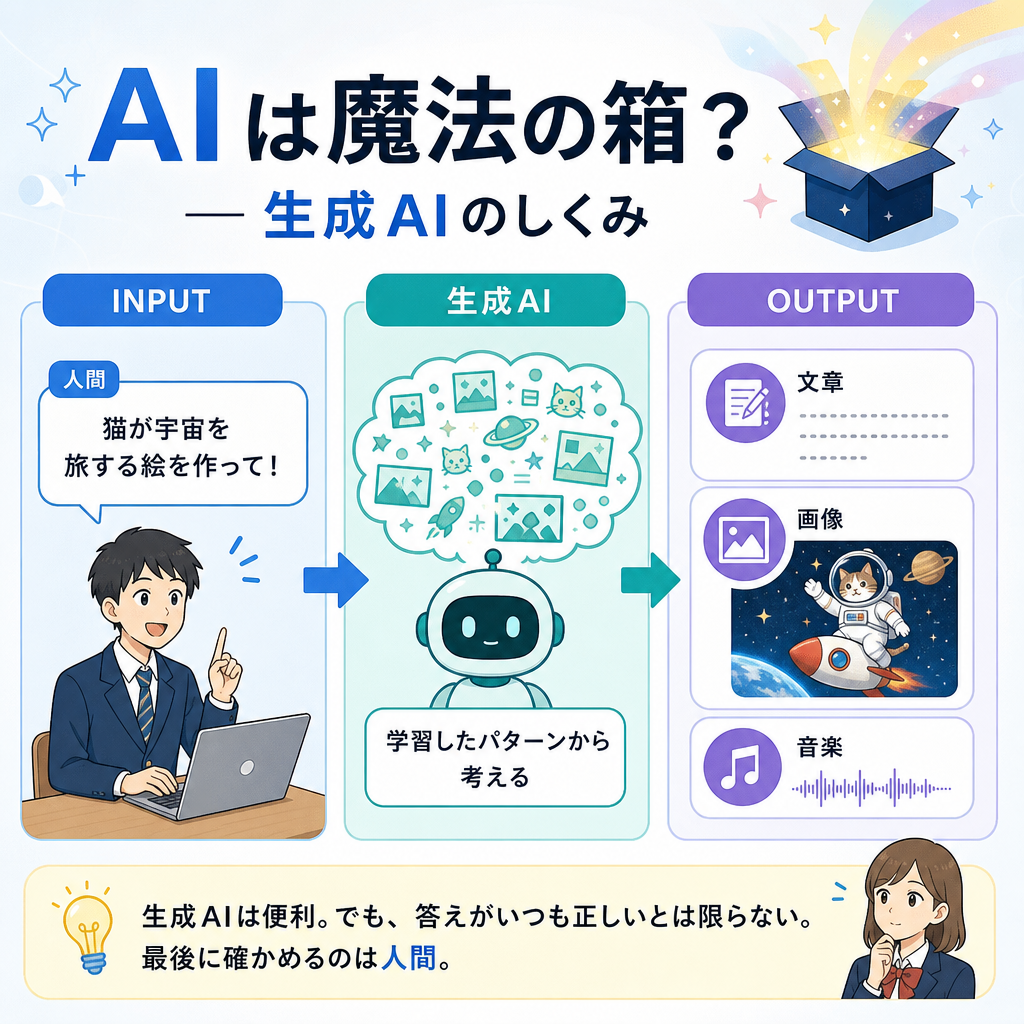
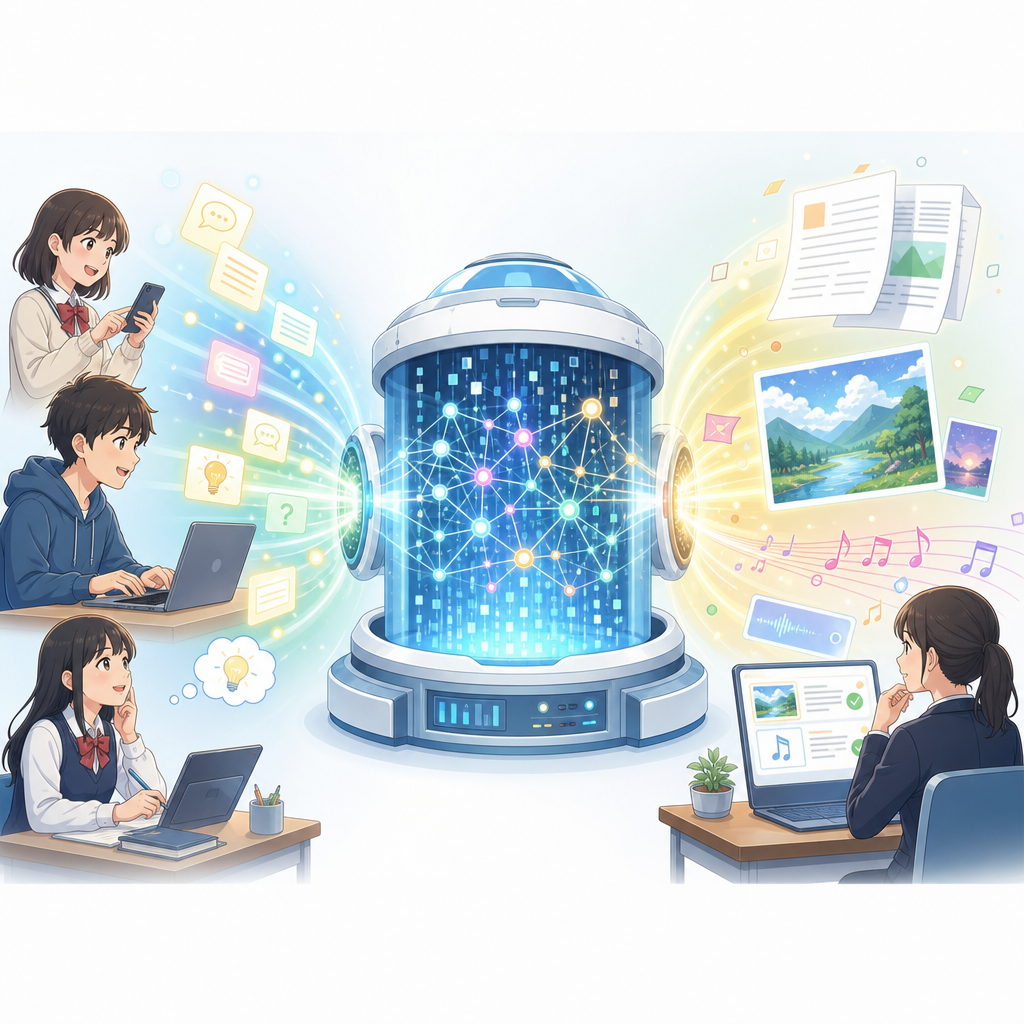
Update Creative AI Portfolio website

diff --git a/index.html b/index.html
@@ -3,159 +3,88 @@
 <head>
   <meta charset="utf-8">
   <meta name="viewport" content="width=device-width,initial-scale=1">
-  <title>JackSin — Creative AI Portfolio</title>
-  <meta name="description" content="Creative AI, Web, App and Generative AI works by JackSin.">
-  <meta property="og:title" content="JackSin — Creative AI Portfolio">
+  <title>Creative AI Portfolio</title>
+  <meta name="description" content="Creative AI, Web, App and Generative AI works.">
+  <meta property="og:title" content="Creative AI Portfolio">
   <meta property="og:description" content="Creative AI, Web, App and Generative AI works.">
-  <meta property="og:image" content="https://jacksin2031.github.io/Creative-AI-Portfolio/assets/og-image.jpg">
+  <meta property="og:image" content="https://jacksin2031.github.io/Creative-AI-Portfolio/assets/og-image.png">
   <meta property="og:type" content="website">
   <meta property="og:url" content="https://jacksin2031.github.io/Creative-AI-Portfolio/">
   <meta name="twitter:card" content="summary_large_image">
   <link rel="stylesheet" href="style.css">
 </head>
 <body>
-  <header class="nav">
-    <a class="brand" href="#home">✦ JackSin</a>
-    <nav>
-      <a href="#works">Works</a>
-      <a href="#projects">Projects</a>
-      <a href="#rsl">RSL 1.0</a>
-      <a href="https://github.com/jacksin2031/Creative-AI-Portfolio">GitHub</a>
-    </nav>
-  </header>
-
-  <main>
-    <section class="hero" id="home">
-      <div class="hero-copy">
-        <p class="eyebrow">CREATIVE AI PORTFOLIO · 2026</p>
-        <h1>Create. Learn. <span>Share.</span></h1>
-        <p class="lead">生成AIを「出力する道具」ではなく、考え、設計し、検証する制作パートナーとして扱う。</p>
-        <div class="actions">
-          <a class="primary" href="#works">課題作品を見る</a>
-          <a class="secondary" href="https://github.com/jacksin2031/Creative-AI-Portfolio">Repository</a>
-        </div>
-      </div>
-      <div class="hero-card">
-        <strong>Course focus</strong>
-        <div class="chips">
-          <span>Image Generation</span><span>Music AI</span><span>Diffusion</span>
-          <span>Multimodal</span><span>HITL</span><span>Reproducibility</span>
-        </div>
-        <p>プロンプト、生成条件、権利、再現性までを制作ログとして残すことを重視しています。</p>
-      </div>
-    </section>
-
-    <section class="section" id="works">
-      <div class="section-head">
-        <div>
-          <p class="eyebrow">CREATIVE AI COURSE</p>
-          <h2>課題作品｜第1回〜第6回</h2>
-        </div>
-        <p>各回で学んだ概念を、1枚の画像レポートや制作記録として可視化しました。</p>
-      </div>
-
-      <div class="grid">
-        <article class="card">
-          <img src="assets/round1.png" alt="AIは魔法の箱？ 生成AIのしくみ">
-          <div class="card-body">
-            <span class="badge">第1回</span>
-            <h3>AIは魔法の箱？</h3>
-            <p>入力 → 生成AI → 出力という基本構造と、「最後に確認するのは人間」という視点を表現。</p>
-            <div class="tags"><span>Text2Image</span><span>Prompt</span></div>
-          </div>
-        </article>
-
-        <article class="card">
-          <img src="assets/round2.svg" alt="生成AIとの向き合い方 商業利用チェックリスト">
-          <div class="card-body">
-            <span class="badge">第2回</span>
-            <h3>生成AIとの向き合い方</h3>
-            <p>自分のWeb/App制作に、契約・ライセンス・知財・機密情報・制作ログのチェックを適用。</p>
-            <div class="tags"><span>Rights</span><span>Guideline</span></div>
-          </div>
-        </article>
-
-        <article class="card">
-          <img src="assets/round3.png" alt="楽曲生成AIの制御性・再現性・表現能力">
-          <div class="card-body">
-            <span class="badge">第3回</span>
-            <h3>AI音楽は「ガチャ」じゃない</h3>
-            <p>Lyrics、Style、BPM、Vocal、Structureを設計し、生成条件を記録する音楽制作を可視化。</p>
-            <div class="tags"><span>Music AI</span><span>BPM</span><span>Control</span></div>
-          </div>
-        </article>
-
-        <article class="card">
-          <img src="assets/round4.png" alt="オープンモデルと商用モデルの違い">
-          <div class="card-body">
-            <span class="badge">第4回</span>
-            <h3>オープンモデルと商用モデル</h3>
-            <p>自由度・環境構築・ライセンスと、手軽さ・品質・サポートの違いを同じお題で比較。</p>
-            <div class="tags"><span>Open Model</span><span>Seed</span><span>Reproducibility</span></div>
-          </div>
-        </article>
-
-        <article class="card">
-          <img src="assets/round5.png" alt="拡散モデル Diffusion の仕組み">
-          <div class="card-body">
-            <span class="badge">第5回</span>
-            <h3>ざらざらの中から絵が浮かぶ</h3>
-            <p>Diffusionを「砂嵐のようなノイズを少しずつ掃いて、景色を浮かび上がらせる」比喩で説明。</p>
-            <div class="tags"><span>Diffusion</span><span>Noise</span><span>Seed</span></div>
-          </div>
-        </article>
-
-        <article class="card">
-          <img src="assets/round6.png" alt="LuC4で体感するマルチモーダルとHITL">
-          <div class="card-body">
-            <span class="badge">第6回</span>
-            <h3>LuC4 × Multimodal × HITL</h3>
-            <p>文字と画像をまとめて理解し、人間の確認とフィードバックで出力を育てる循環を表現。</p>
-            <div class="tags"><span>Multimodal</span><span>HITL</span><span>Feedback</span></div>
-          </div>
-        </article>
-      </div>
-    </section>
-
-    <section class="section projects" id="projects">
-      <div class="section-head">
-        <div>
-          <p class="eyebrow">OTHER PROJECTS</p>
-          <h2>AI × Software Development</h2>
-        </div>
-        <p>授業以外でも、AIをシステム設計・Web/App・ゲーム制作に活用しています。</p>
-      </div>
-      <div class="project-grid">
-        <article><h3>Atlas Automation Studio</h3><p>ゲーム／デスクトップアプリ向けのAIオートメーション基盤。ワークフロー、Runtime、Plugin、Storageなどを設計。</p><span>Rust · Python · Tauri</span></article>
-        <article><h3>TravelEasy</h3><p>香港⇄日本旅行向けの旅行支援アプリ。旅程、翻訳、OCR、ルート、予算などを統合。</p><span>Flutter · Dart · AI</span></article>
-        <article><h3>異世界転生 Web Game</h3><p>AIが世界観を生成し、探索とアイテム収集を通じて世界を理解していくブラウザゲーム構想。</p><span>AI · Web · Game Design</span></article>
-        <article><h3>Local AI Memory System</h3><p>知識境界、長期記憶、Experience Recorder、Self Evolutionを備えたローカルAIメモリ基盤。</p><span>Local AI · Memory · Evaluation</span></article>
-      </div>
-    </section>
-
-    <section class="section rsl" id="rsl">
-      <div class="section-head">
-        <div>
-          <p class="eyebrow">RSL 1.0</p>
-          <h2>AI利用・再利用について</h2>
-        </div>
-      </div>
-      <div class="policy">
-        <p>このポートフォリオでは、作品の制作過程・出典・利用条件をできる限り明示します。AIで利用・再利用する場合も、第三者の権利と各サービスの利用条件を優先します。</p>
-        <ul>
-          <li><strong>作者表示・出典を保持する。</strong> 作品を紹介・引用する際は、作者と出典が分かる形にする。</li>
-          <li><strong>第三者の権利を優先する。</strong> 画像・音声・商標・キャラクター等に第三者の権利が含まれる場合、その条件に従う。</li>
-          <li><strong>なりすまし・誤認を避ける。</strong> 作者本人が制作・発言・承認したかのように見せる利用を行わない。</li>
-          <li><strong>AI利用を記録する。</strong> 使用したツール、モデル、バージョン、プロンプト、主要パラメータを可能な範囲で残す。</li>
-        </ul>
-        <p class="note">※ 授業で確定したRSL 1.0の個別条件がある場合は、このセクションをその条件に合わせて更新します。</p>
-      </div>
-    </section>
-  </main>
-
-  <footer>
-    <p>© 2026 JackSin · Creative AI Portfolio</p>
+<header class="nav">
+  <a class="brand" href="#home">✦ Creative AI Portfolio</a>
+  <nav>
+    <a href="#works">Works</a>
+    <a href="#projects">Projects</a>
+    <a href="#rsl">RSL 1.0</a>
     <a href="https://github.com/jacksin2031/Creative-AI-Portfolio">GitHub</a>
-  </footer>
+  </nav>
+</header>
+<main>
+  <section class="hero" id="home">
+    <div class="hero-copy">
+      <p class="eyebrow">CREATIVE AI PORTFOLIO · 2026</p>
+      <h1>Create. Learn. <span>Share.</span></h1>
+      <p class="lead">生成AIを「出力する道具」ではなく、考え、設計し、検証する制作パートナーとして学んだ8つの記録。</p>
+      <div class="actions">
+        <a class="primary" href="#works">課題作品を見る</a>
+        <a class="secondary" href="https://github.com/jacksin2031/Creative-AI-Portfolio">Repository</a>
+      </div>
+    </div>
+    <div class="hero-card">
+      <strong>Course focus</strong>
+      <div class="chips"><span>Image Generation</span><span>Music AI</span><span>Diffusion</span><span>Multimodal</span><span>HITL</span><span>Rights</span><span>Reproducibility</span></div>
+      <p>プロンプト、生成条件、権利、再現性までを制作ログとして残し、AIとの関係を「使う」から「創る・考える・活かす」へ更新していくことを目指しました。</p>
+    </div>
+  </section>
+
+  <section class="section" id="works">
+    <div class="section-head">
+      <div><p class="eyebrow">CREATIVE AI COURSE</p><h2>課題作品｜第1回〜第8回</h2></div>
+      <p>各回で学んだ概念を、1枚の画像レポートやポートフォリオ作品として可視化しました。</p>
+    </div>
+    <div class="grid">
+      <article class="card"><img src="assets/round1.png" alt="第1回 生成AIとは何か"><div class="card-body"><span class="badge">第1回</span><h3>AIは魔法の箱？</h3><p>入力 → 生成AI → 出力という基本構造と、「最後に確認するのは人間」という視点を表現。</p><div class="tags"><span>Text2Image</span><span>Prompt</span></div></div></article>
+      <article class="card"><img src="assets/round2.svg" alt="第2回 生成AIとの向き合い方"><div class="card-body"><span class="badge">第2回</span><h3>生成AIとの向き合い方</h3><p>自分のWeb/App制作に、契約・ライセンス・知財・機密情報・制作ログのチェックを適用。</p><div class="tags"><span>Rights</span><span>Guideline</span></div></div></article>
+      <article class="card"><img src="assets/round3.png" alt="第3回 楽曲生成AI"><div class="card-body"><span class="badge">第3回</span><h3>AI音楽は「ガチャ」じゃない</h3><p>Lyrics、Style、BPM、Vocal、Structureを設計し、生成条件を記録する音楽制作を可視化。</p><div class="tags"><span>Music AI</span><span>BPM</span><span>Control</span></div></div></article>
+      <article class="card"><img src="assets/round4.png" alt="第4回 オープンモデルと商用モデル"><div class="card-body"><span class="badge">第4回</span><h3>オープンモデルと商用モデル</h3><p>自由度・環境構築・ライセンスと、手軽さ・品質・サポートの違いを同じお題で比較。</p><div class="tags"><span>Open Model</span><span>Seed</span><span>Reproducibility</span></div></div></article>
+      <article class="card"><img src="assets/round5.png" alt="第5回 Diffusion"><div class="card-body"><span class="badge">第5回</span><h3>ざらざらの中から絵が浮かぶ</h3><p>Diffusionを「ノイズを少しずつ掃いて景色を浮かび上がらせる」比喩で説明。</p><div class="tags"><span>Diffusion</span><span>Noise</span><span>Seed</span></div></div></article>
+      <article class="card"><img src="assets/round6.png" alt="第6回 LuC4"><div class="card-body"><span class="badge">第6回</span><h3>LuC4 × Multimodal × HITL</h3><p>文字と画像をまとめて理解し、人間の確認とフィードバックで出力を育てる循環を表現。</p><div class="tags"><span>Multimodal</span><span>HITL</span><span>Feedback</span></div></div></article>
+      <article class="card"><img src="assets/round7.png" alt="第7回 公開ポートフォリオ"><div class="card-body"><span class="badge">第7回</span><h3>公開ポートフォリオ</h3><p>GitHub Pagesで公開する作品サイトを構築し、作品群とAI利用・再利用条件を整理して発信。</p><div class="tags"><span>Web</span><span>GitHub Pages</span><span>og:image</span></div></div></article>
+      <article class="card"><img src="assets/round8.png" alt="第8回 学ぶ前と学んだ後で"><div class="card-body"><span class="badge">第8回</span><h3>学ぶ前と学んだ後で</h3><p>AIを便利な道具として使う段階から、理解し、考え、責任を持って活用する立場への変化を宣言。</p><div class="tags"><span>Reflection</span><span>Declaration</span><span>Portfolio</span></div></div></article>
+    </div>
+  </section>
+
+  <section class="section projects" id="projects">
+    <div class="section-head">
+      <div><p class="eyebrow">OTHER PROJECTS</p><h2>AI × Software Development</h2></div>
+      <p>授業以外でも、AIをシステム設計・Web/App・ゲーム制作に活用しています。</p>
+    </div>
+    <div class="project-grid">
+      <article><h3>Atlas Automation Studio</h3><p>ゲーム／デスクトップアプリ向けのAIオートメーション基盤。ワークフロー、Runtime、Plugin、Storageなどを設計。</p><span>Rust · Python · Tauri</span></article>
+      <article><h3>TravelEasy</h3><p>香港⇄日本旅行向けの旅行支援アプリ。旅程、翻訳、OCR、ルート、予算などを統合。</p><span>Flutter · Dart · AI</span></article>
+      <article><h3>異世界転生 Web Game</h3><p>AIが世界観を生成し、探索とアイテム収集を通じて世界を理解していくブラウザゲーム構想。</p><span>AI · Web · Game Design</span></article>
+      <article><h3>Local AI Memory System</h3><p>知識境界、長期記憶、Experience Recorder、Self Evolutionを備えたローカルAIメモリ基盤。</p><span>Local AI · Memory · Evaluation</span></article>
+    </div>
+  </section>
+
+  <section class="section rsl" id="rsl">
+    <div class="section-head"><div><p class="eyebrow">RSL 1.0</p><h2>AI利用・再利用について</h2></div></div>
+    <div class="policy">
+      <p>このポートフォリオでは、作品の制作過程・出典・利用条件をできる限り明示します。AIで利用・再利用する場合も、第三者の権利と各サービスの利用条件を優先します。</p>
+      <ul>
+        <li><strong>作者表示・出典を保持する。</strong> 作品を紹介・引用する際は、作者と出典が分かる形にする。</li>
+        <li><strong>第三者の権利を優先する。</strong> 画像・音声・商標・キャラクター等に第三者の権利が含まれる場合、その条件に従う。</li>
+        <li><strong>なりすまし・誤認を避ける。</strong> 作者本人が制作・発言・承認したかのように見せる利用を行わない。</li>
+        <li><strong>AI利用を記録する。</strong> 使用したツール、モデル、バージョン、プロンプト、主要パラメータを可能な範囲で残す。</li>
+      </ul>
+      <p class="note">※ 授業で確定したRSL 1.0の個別条件がある場合は、このセクションをその条件に合わせて更新します。</p>
+    </div>
+  </section>
+</main>
+<footer><p>© 2026 Creative AI Portfolio</p><a href="https://github.com/jacksin2031/Creative-AI-Portfolio">GitHub</a></footer>
 </body>
 </html>

diff --git a/style.css b/style.css
@@ -1,33 +1,15 @@
 
-:root{
-  --bg:#071327;--panel:#0d1c36;--ink:#eaf2ff;--muted:#a8b6cf;
-  --line:rgba(255,255,255,.11);--blue:#64a3ff;--violet:#9f7cff;
-  --surface:#f6f8fc;--dark:#101828;--shadow:0 18px 45px rgba(5,18,40,.13);
-}
-*{box-sizing:border-box}html{scroll-behavior:smooth}
-body{margin:0;font-family:Inter,"Noto Sans JP",system-ui,-apple-system,BlinkMacSystemFont,"Segoe UI",sans-serif;background:var(--surface);color:var(--dark)}
-a{color:inherit;text-decoration:none}
-.nav{height:70px;padding:0 max(5vw,28px);display:flex;align-items:center;justify-content:space-between;background:#071327;color:white;position:sticky;top:0;z-index:20;border-bottom:1px solid var(--line)}
-.brand{font-size:1.2rem;font-weight:800}.nav nav{display:flex;gap:24px;font-size:.93rem;color:#d6e1f5}.nav nav a:hover{color:white}
-main{overflow:hidden}
-.hero{min-height:520px;padding:90px max(7vw,34px);display:grid;grid-template-columns:1.45fr .8fr;gap:56px;align-items:center;color:white;background:
-radial-gradient(circle at 75% 18%,rgba(96,97,255,.32),transparent 28%),
-radial-gradient(circle at 35% 50%,rgba(48,172,255,.17),transparent 33%),
-linear-gradient(135deg,#061226,#0c2145 57%,#1a1747)}
-.hero:after{content:"";position:absolute;inset:70px 0 auto 0;height:520px;pointer-events:none;background-image:linear-gradient(rgba(255,255,255,.025) 1px,transparent 1px),linear-gradient(90deg,rgba(255,255,255,.025) 1px,transparent 1px);background-size:40px 40px}
-.hero-copy,.hero-card{position:relative;z-index:1}.eyebrow{letter-spacing:.13em;text-transform:uppercase;font-size:.75rem;font-weight:800;color:#6b88b4}
-.hero .eyebrow{color:#8bb7ff}
-h1{font-size:clamp(3.2rem,7vw,6.5rem);line-height:.94;margin:14px 0 28px;letter-spacing:-.055em;max-width:850px}
-h1 span{background:linear-gradient(90deg,#6bc6ff,#a783ff);-webkit-background-clip:text;color:transparent}
-.lead{font-size:1.2rem;line-height:1.9;color:#cbd8ee;max-width:760px}.actions{display:flex;gap:14px;margin-top:30px}
-.primary,.secondary{padding:13px 19px;border-radius:10px;font-weight:750}.primary{background:linear-gradient(90deg,#4d88ff,#795cff);box-shadow:0 10px 30px rgba(79,111,255,.34)}.secondary{border:1px solid rgba(255,255,255,.24)}
-.hero-card{background:rgba(255,255,255,.07);border:1px solid rgba(255,255,255,.13);backdrop-filter:blur(12px);border-radius:24px;padding:28px;box-shadow:0 28px 80px rgba(0,0,0,.2)}
-.hero-card strong{font-size:1.2rem}.hero-card p{color:#bdcae0;line-height:1.75}.chips{display:flex;flex-wrap:wrap;gap:9px;margin:18px 0}.chips span{padding:8px 10px;border-radius:999px;background:rgba(255,255,255,.09);border:1px solid rgba(255,255,255,.1);font-size:.82rem}
+:root{--bg:#071327;--panel:#0d1c36;--ink:#eaf2ff;--muted:#a8b6cf;--line:rgba(255,255,255,.11);--blue:#64a3ff;--violet:#9f7cff;--surface:#f6f8fc;--dark:#101828;--shadow:0 18px 45px rgba(5,18,40,.13)}
+*{box-sizing:border-box}html{scroll-behavior:smooth}body{margin:0;font-family:Inter,"Noto Sans JP",system-ui,-apple-system,BlinkMacSystemFont,"Segoe UI",sans-serif;background:var(--surface);color:var(--dark)}a{color:inherit;text-decoration:none}
+.nav{height:70px;padding:0 max(5vw,28px);display:flex;align-items:center;justify-content:space-between;background:#071327;color:#fff;position:sticky;top:0;z-index:20;border-bottom:1px solid var(--line)}
+.brand{font-size:1.06rem;font-weight:800}.nav nav{display:flex;gap:24px;font-size:.93rem;color:#d6e1f5}.nav nav a:hover{color:#fff}
+.hero{min-height:520px;padding:90px max(7vw,34px);display:grid;grid-template-columns:1.45fr .8fr;gap:56px;align-items:center;color:white;background:radial-gradient(circle at 75% 18%,rgba(96,97,255,.32),transparent 28%),radial-gradient(circle at 35% 50%,rgba(48,172,255,.17),transparent 33%),linear-gradient(135deg,#061226,#0c2145 57%,#1a1747);position:relative}.hero:after{content:"";position:absolute;inset:70px 0 auto 0;height:520px;pointer-events:none;background-image:linear-gradient(rgba(255,255,255,.025) 1px,transparent 1px),linear-gradient(90deg,rgba(255,255,255,.025) 1px,transparent 1px);background-size:40px 40px}
+.hero-copy,.hero-card{position:relative;z-index:1}.eyebrow{letter-spacing:.13em;text-transform:uppercase;font-size:.75rem;font-weight:800;color:#6b88b4}.hero .eyebrow{color:#8bb7ff}h1{font-size:clamp(3.1rem,7vw,6rem);line-height:.94;margin:14px 0 28px;letter-spacing:-.055em;max-width:850px}h1 span{background:linear-gradient(90deg,#6bc6ff,#a783ff);-webkit-background-clip:text;color:transparent}.lead{font-size:1.18rem;line-height:1.9;color:#cbd8ee;max-width:760px}.actions{display:flex;gap:14px;margin-top:30px}.primary,.secondary{padding:13px 19px;border-radius:10px;font-weight:750}.primary{background:linear-gradient(90deg,#4d88ff,#795cff);box-shadow:0 10px 30px rgba(79,111,255,.34)}.secondary{border:1px solid rgba(255,255,255,.24)}
+.hero-card{background:rgba(255,255,255,.07);border:1px solid rgba(255,255,255,.13);backdrop-filter:blur(12px);border-radius:24px;padding:28px;box-shadow:0 28px 80px rgba(0,0,0,.2)}.hero-card strong{font-size:1.2rem}.hero-card p{color:#bdcae0;line-height:1.75}.chips{display:flex;flex-wrap:wrap;gap:9px;margin:18px 0}.chips span{padding:8px 10px;border-radius:999px;background:rgba(255,255,255,.09);border:1px solid rgba(255,255,255,.1);font-size:.82rem}
 .section{padding:86px max(6vw,34px)}.section-head{display:flex;justify-content:space-between;gap:30px;align-items:flex-end;margin-bottom:34px}.section-head h2{font-size:clamp(2rem,4vw,3.35rem);margin:6px 0 0;letter-spacing:-.04em}.section-head>p{max-width:540px;color:#69758b;line-height:1.75}
-.grid{display:grid;grid-template-columns:repeat(3,1fr);gap:24px}.card{background:white;border:1px solid #e4eaf3;border-radius:18px;overflow:hidden;box-shadow:var(--shadow);transition:.25s transform}.card:hover{transform:translateY(-5px)}
-.card img{width:100%;aspect-ratio:16/10;object-fit:cover;display:block;background:#eef3fb}.card-body{padding:20px}.badge{display:inline-block;font-size:.72rem;font-weight:800;background:#edf4ff;color:#2d67c8;padding:6px 9px;border-radius:999px}.card h3{font-size:1.25rem;margin:13px 0 8px}.card p{color:#657187;line-height:1.7;font-size:.92rem}.tags{display:flex;flex-wrap:wrap;gap:7px;margin-top:15px}.tags span,.project-grid article span{font-size:.73rem;color:#586782;background:#f1f4f9;padding:6px 8px;border-radius:999px}
+.grid{display:grid;grid-template-columns:repeat(4,1fr);gap:22px}.card{background:#fff;border:1px solid #e4eaf3;border-radius:18px;overflow:hidden;box-shadow:var(--shadow);transition:.25s transform}.card:hover{transform:translateY(-5px)}.card img{width:100%;aspect-ratio:16/10;object-fit:cover;display:block;background:#eef3fb}.card-body{padding:20px}.badge{display:inline-block;font-size:.72rem;font-weight:800;background:#edf4ff;color:#2d67c8;padding:6px 9px;border-radius:999px}.card h3{font-size:1.18rem;margin:13px 0 8px}.card p{color:#657187;line-height:1.7;font-size:.92rem}.tags{display:flex;flex-wrap:wrap;gap:7px;margin-top:15px}.tags span,.project-grid article span{font-size:.73rem;color:#586782;background:#f1f4f9;padding:6px 8px;border-radius:999px}
 .projects{background:#eef3fa}.project-grid{display:grid;grid-template-columns:repeat(4,1fr);gap:18px}.project-grid article{background:white;padding:25px;border-radius:17px;border:1px solid #dfe6f0}.project-grid h3{margin:0 0 11px}.project-grid p{color:#657187;line-height:1.72;font-size:.9rem}
-.rsl{background:white}.policy{max-width:980px;background:#f5f8fc;border:1px solid #dfe7f2;border-radius:20px;padding:28px 32px;line-height:1.8}.policy li{margin:11px 0}.note{color:#6d7789;font-size:.88rem;border-top:1px solid #dfe7f2;padding-top:15px;margin-top:20px}
-footer{padding:28px max(6vw,34px);background:#071327;color:#b7c5dc;display:flex;justify-content:space-between}
-@media(max-width:980px){.hero{grid-template-columns:1fr}.grid{grid-template-columns:repeat(2,1fr)}.project-grid{grid-template-columns:repeat(2,1fr)}.section-head{align-items:flex-start;flex-direction:column}.hero:after{display:none}}
-@media(max-width:650px){.nav nav a:not(:last-child){display:none}.hero{padding-top:65px}.grid,.project-grid{grid-template-columns:1fr}.actions{flex-wrap:wrap}h1{font-size:3.3rem}}
+.rsl{background:white}.policy{max-width:980px;background:#f5f8fc;border:1px solid #dfe7f2;border-radius:20px;padding:28px 32px;line-height:1.8}.policy li{margin:11px 0}.note{color:#6d7789;font-size:.88rem;border-top:1px solid #dfe7f2;padding-top:15px;margin-top:20px}footer{padding:28px max(6vw,34px);background:#071327;color:#b7c5dc;display:flex;justify-content:space-between}
+@media(max-width:1180px){.grid{grid-template-columns:repeat(3,1fr)}.project-grid{grid-template-columns:repeat(2,1fr)}}
+@media(max-width:980px){.hero{grid-template-columns:1fr}.section-head{align-items:flex-start;flex-direction:column}.hero:after{display:none}.grid{grid-template-columns:repeat(2,1fr)}}
+@media(max-width:650px){.nav nav a:not(:last-child){display:none}.hero{padding-top:65px}.grid,.project-grid{grid-template-columns:1fr}.actions{flex-wrap:wrap}h1{font-size:3.2rem}}

diff --git a/README.md b/README.md
@@ -1,13 +1,25 @@
 # Creative AI Portfolio
 
-公開ポートフォリオ用の静的サイトです。
+更新版の公開ポートフォリオです。第1回〜第8回の作品を掲載しています。
+
+## GitHub Pages で公開する手順
+
+1. このZIPの中身を `jacksin2031/Creative-AI-Portfolio` の `main` ブランチ直下に上書きアップロードします。
+2. GitHub の **Settings → Pages** を開きます。
+3. **Build and deployment** の Source を **Deploy from a branch** にします。
+4. Branch を **main**、Folder を **/(root)** にして Save。
+5. 数分後、以下で公開されます。
+
+`https://jacksin2031.github.io/Creative-AI-Portfolio/`
 
 ## 第7回の提出物
 
 - URL: `https://jacksin2031.github.io/Creative-AI-Portfolio/`
-- 代表画像: `assets/og-image.jpg`
+- 代表画像: `assets/og-image.png`
 
-## RSL 1.0
+## 第8回の追加
 
-`index.html` 内の「AI利用・再利用について」セクションに記載しています。
-授業で確定した個別条件がある場合は、その内容に合わせて更新してください。
+- 第7回「公開ポートフォリオ」カードを追加
+- 第8回「学ぶ前と学んだ後で」カードを追加
+- サイト内の `JackSin` 表記を削除
+- og:image を更新
